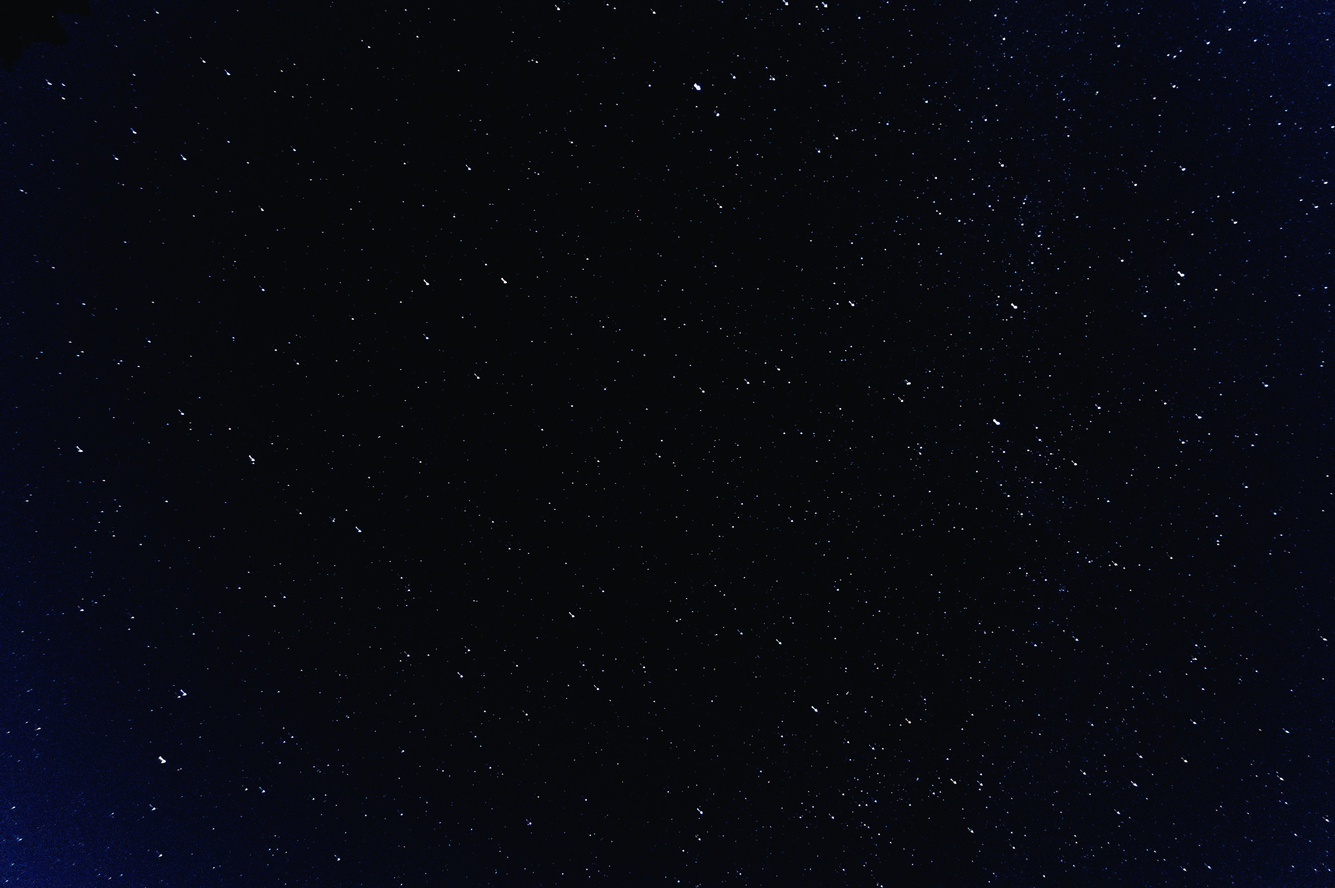
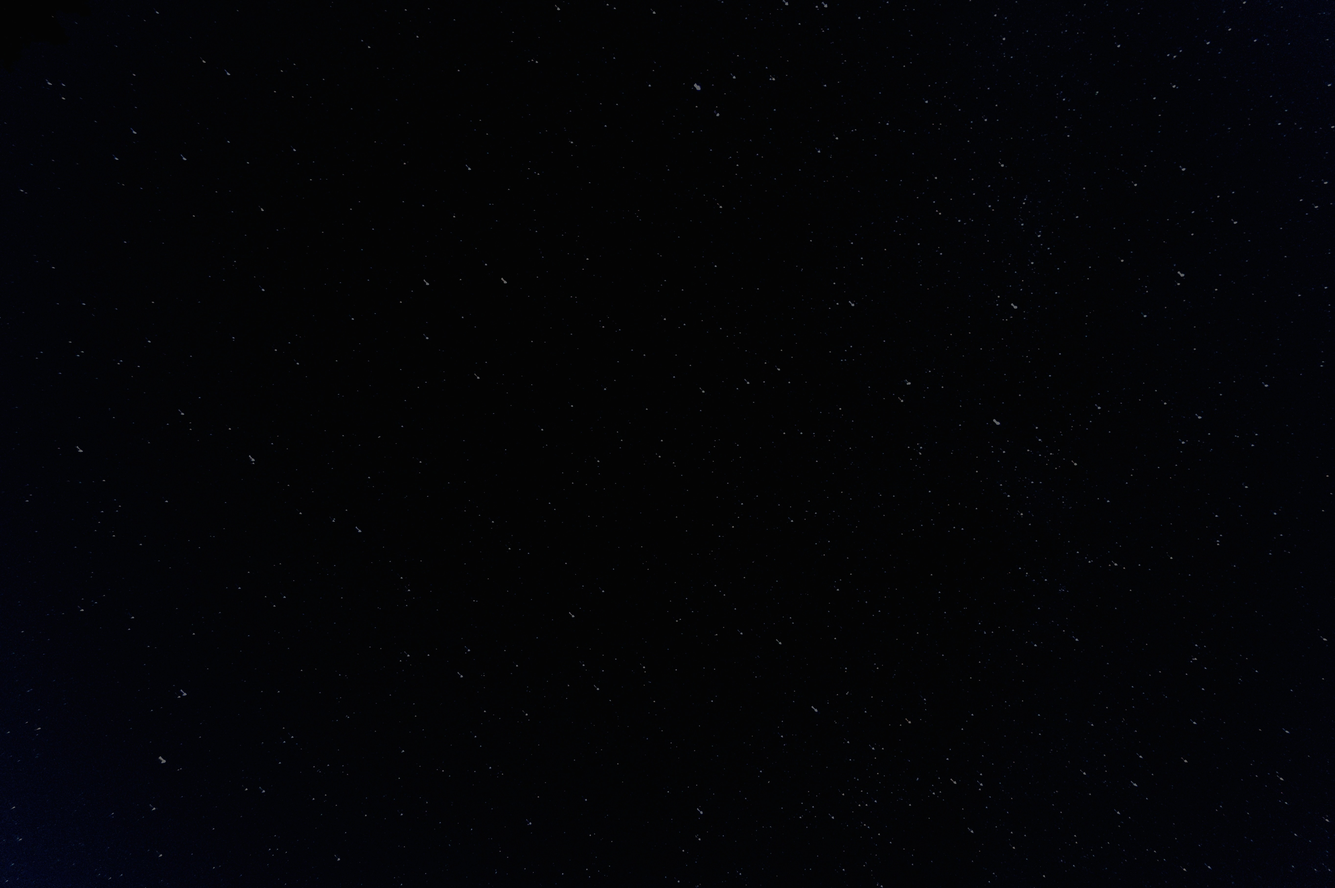
Made water shader
Made the water shader despite having to learn a lot about updates to webgl holy crap

diff --git a/src/script.js b/src/script.js
@@ -5,13 +5,9 @@ import { GLTFLoader } from 'three/examples/jsm/loaders/GLTFLoader.js'
 import { DRACOLoader } from 'three/examples/jsm/loaders/DRACOLoader.js'
 import { gsap } from 'gsap'
 
-/**
- * Base
- */
-// Debug
-const gui = new dat.GUI({
-    width: 400
-})
+//  Shaders
+import vertexShader from './shaders/oceanShaders/vertexShader.glsl'
+import fragmentShader from './shaders/oceanShaders/fragmentShader.glsl'
 
 // Canvas
 const canvas = document.querySelector('canvas.webgl')
@@ -71,7 +67,6 @@ const cube = new THREE.Mesh(
 )
 
 scene.add(cube)
-
 
 /**
  * Materials
@@ -185,6 +180,8 @@ const setOnClickMethods = () => {
  * Scene
  */
 
+ scene.fog = new THREE.Fog(0x000000, 30, 50)
+
 //  Loading Overlay
 const overlayGeometry = new THREE.PlaneBufferGeometry(2,2,1,1)
 const overlayMaterial = new THREE.ShaderMaterial({
@@ -208,11 +205,19 @@ const overlayMaterial = new THREE.ShaderMaterial({
 const overlay = new THREE.Mesh(overlayGeometry, overlayMaterial)
 scene.add(overlay)
 
-scene.background = nightSkyTexture
-
 const sea = new THREE.Mesh(
-    new THREE.CircleBufferGeometry(50, 50),
-    new THREE.MeshBasicMaterial({ color: 0x0000ff })
+    new THREE.PlaneBufferGeometry(200, 200, 200, 200),
+    new THREE.RawShaderMaterial({
+        fog: true,
+        uniforms: {
+            fogColor:    { type: "c", value: scene.fog.color },
+            fogNear:     { type: "f", value: scene.fog.near },
+            fogFar:      { type: "f", value: scene.fog.far },
+            time:        { type: "f", value: 0 }
+        },
+        vertexShader: vertexShader,
+        fragmentShader: fragmentShader
+    })
 )
 
 sea.rotation.set(-Math.PI / 2, 0, 0)
@@ -316,8 +321,6 @@ gltfLoader.load(
 	}
 )
 
-scene.fog = new THREE.Fog(0x000000, 40, 50)
-
 /**
  * Sizes
  */
@@ -348,6 +351,9 @@ window.addEventListener('resize', () =>
  */
 // Base camera
 const ogCameraPosition = new THREE.Vector3(0, 6, 15)
+if(window.innerWidth < window.innerHeight) {
+    ogCameraPosition.multiplyScalar(2)
+}
 
 const camera = new THREE.PerspectiveCamera(45, sizes.width / sizes.height, 0.1, 100)
 camera.position.set(ogCameraPosition.x, ogCameraPosition.y, ogCameraPosition.z)
@@ -376,6 +382,9 @@ var elapsedTime = 0
 const tick = () =>
 {
     elapsedTime = clock.getElapsedTime()
+
+    //  Update water shader
+    sea.material.uniforms.time.value += elapsedTime
 
     //  Update camera if necessary
     if(cameraAnimationObject.transitioning) {
